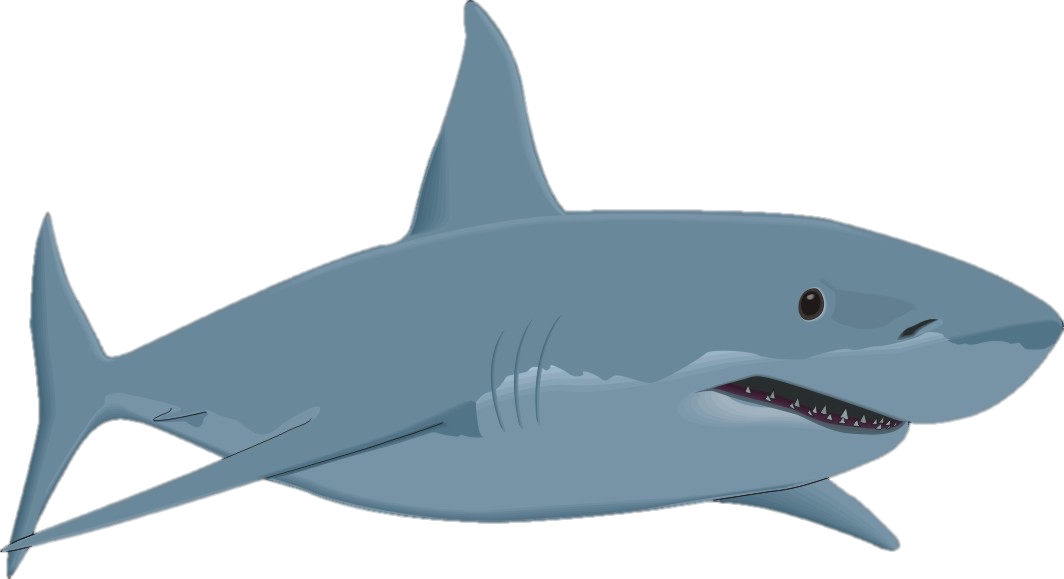
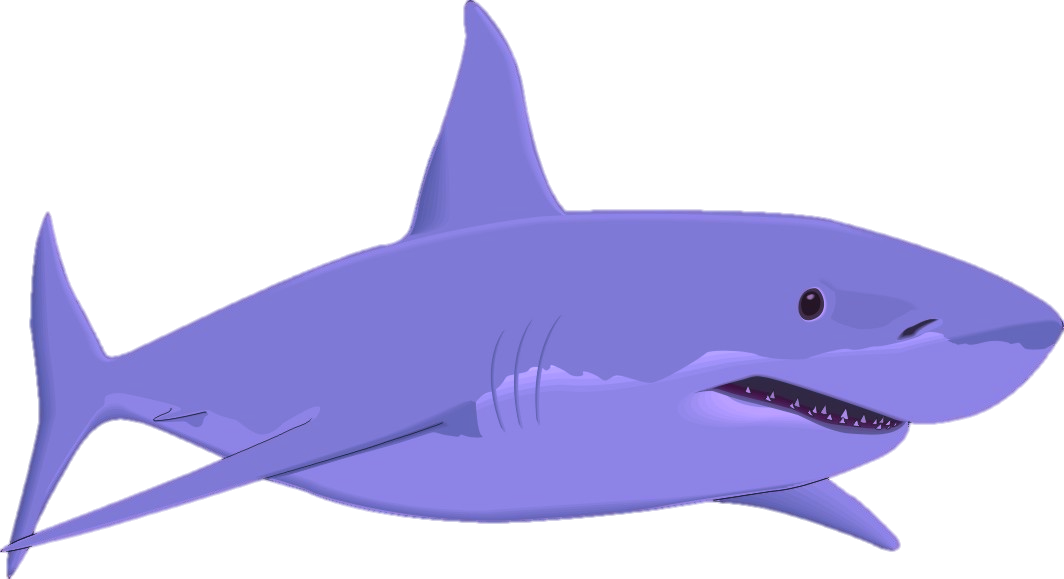
implement rebirth system and change shark color

diff --git a/lib/bundle.js b/lib/bundle.js
@@ -73,7 +73,7 @@
 	    this.player = [];
 	    this.score = 0;
 	    this.populateFish();
-	    // this.lives = 3;
+	    this.lives = 3;
 	    // this.highScore = 0;
 	    // window.localStorage.setItem("score", this.highScore);
 	    // let hs = document.getElementById("high-score");
@@ -81,14 +81,13 @@
 	  }
 	
 	  isOver() {
-	    // if (this.lives < 1) {
+	    if (this.lives < 1) {
 	      if (confirm(`You earned: ${this.score} points, want to play again?`)) {
 	        document.location.reload(true);
 	      }
-	    // } else {
-	    //   this.lives--;
+	    }
 	    //   this.addPlayer();
-	    // }
+	
 	  }
 	
 	  populateFish() {
@@ -190,7 +189,7 @@
 	
 	  step(time) {
 	    let score = document.getElementById("score");
-	    score.innerHTML = `score: ${this.score}`;
+	    score.innerHTML = `lives: ${this.lives} score: ${this.score}`;
 	    const player = this.player[0];
 	    this.moveFishes(time);
 	    this.checkCollisions();
@@ -359,7 +358,8 @@
 	      let move = GameView.MOVES[k];
 	      key(k, () => { player.swim(move); });
 	    });
-	    key('space', () => { player.brake(); });
+	    key('q', () => { player.brake(); });
+	    key('e', () => { player.brake(); });
 	  }
 	}
 	
@@ -425,13 +425,20 @@
 	      this.game.remove(otherFish);
 	      this.game.respawnFish();
 	      this.game.score += Math.floor(otherFish.width * .15);
-	      // if (this.width > 1000) {
-	      //   alert('1000 bonus points!');
-	      //   this.game.remove(this);
-	      //   this.game.addPlayer();
-	      // }
+	      if (this.width > 1000) {
+	        alert('500 bonus points! Rebirth!');
+	        this.game.score += 500;
+	        this.width = 50;
+	        this.height = 25;
+	        this.pos = this.game.randomPosition();
+	        this.game.lives++;
+	      }
 	    } else {
-	      this.game.remove(this);
+	      // this.game.remove(this);
+	      this.width = (50 + this.width) / 2;
+	      this.height = this.width / 2;
+	      this.pos = this.game.randomPosition();
+	      this.game.lives--;
 	      this.game.isOver();
 	    }
 	  }

diff --git a/lib/game.js b/lib/game.js
@@ -8,7 +8,7 @@ class Game {
     this.player = [];
     this.score = 0;
     this.populateFish();
-    // this.lives = 3;
+    this.lives = 3;
     // this.highScore = 0;
     // window.localStorage.setItem("score", this.highScore);
     // let hs = document.getElementById("high-score");
@@ -16,14 +16,13 @@ class Game {
   }
 
   isOver() {
-    // if (this.lives < 1) {
+    if (this.lives < 1) {
       if (confirm(`You earned: ${this.score} points, want to play again?`)) {
         document.location.reload(true);
       }
-    // } else {
-    //   this.lives--;
+    }
     //   this.addPlayer();
-    // }
+
   }
 
   populateFish() {
@@ -125,7 +124,7 @@ class Game {
 
   step(time) {
     let score = document.getElementById("score");
-    score.innerHTML = `score: ${this.score}`;
+    score.innerHTML = `lives: ${this.lives} score: ${this.score}`;
     const player = this.player[0];
     this.moveFishes(time);
     this.checkCollisions();

diff --git a/lib/player_fish.js b/lib/player_fish.js
@@ -27,13 +27,20 @@ class PlayerFish extends MovingFish {
       this.game.remove(otherFish);
       this.game.respawnFish();
       this.game.score += Math.floor(otherFish.width * .15);
-      // if (this.width > 1000) {
-      //   alert('1000 bonus points!');
-      //   this.game.remove(this);
-      //   this.game.addPlayer();
-      // }
+      if (this.width > 1000) {
+        alert('500 bonus points! Rebirth!');
+        this.game.score += 500;
+        this.width = 50;
+        this.height = 25;
+        this.pos = this.game.randomPosition();
+        this.game.lives++;
+      }
     } else {
-      this.game.remove(this);
+      // this.game.remove(this);
+      this.width = (50 + this.width) / 2;
+      this.height = this.width / 2;
+      this.pos = this.game.randomPosition();
+      this.game.lives--;
       this.game.isOver();
     }
   }

diff --git a/lib/game_view.js b/lib/game_view.js
@@ -25,7 +25,8 @@ class GameView {
       let move = GameView.MOVES[k];
       key(k, () => { player.swim(move); });
     });
-    key('space', () => { player.brake(); });
+    key('q', () => { player.brake(); });
+    key('e', () => { player.brake(); });
   }
 }
 

diff --git a/index.html b/index.html
@@ -6,6 +6,7 @@
   <body>
     <div class="header group">
       <h1 class="game-title">Sea No Evil</h1>
+      <h2 class="author">by Jeffrey Du</h2>
       <ul class="links">
         <li>
           <a href="https://www.linkedin.com/in/jeffreydu">LinkedIn</a>

diff --git a/css/game.css b/css/game.css
@@ -16,6 +16,13 @@ h1 {
   padding: 12px;
 }
 
+h2 {
+  font-size: 20px;
+  color: tomato;
+  float: left;
+  padding: 26px 12px 12px 12px;
+}
+
 .group {
   clear: both;
   display: block;
